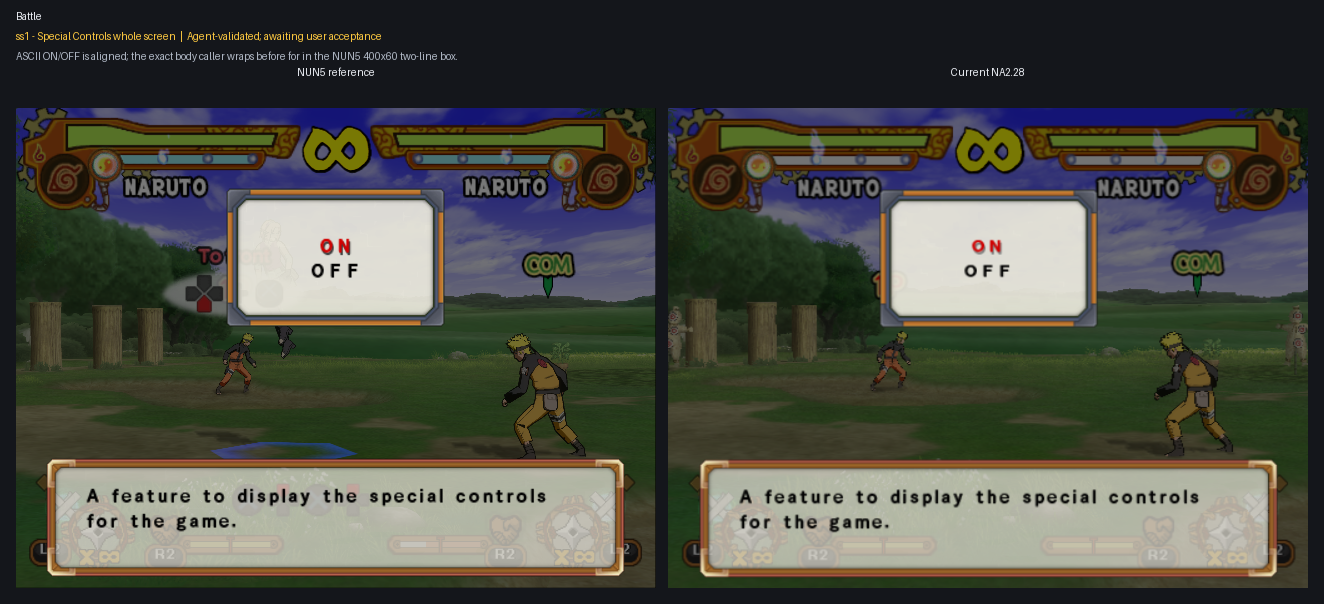
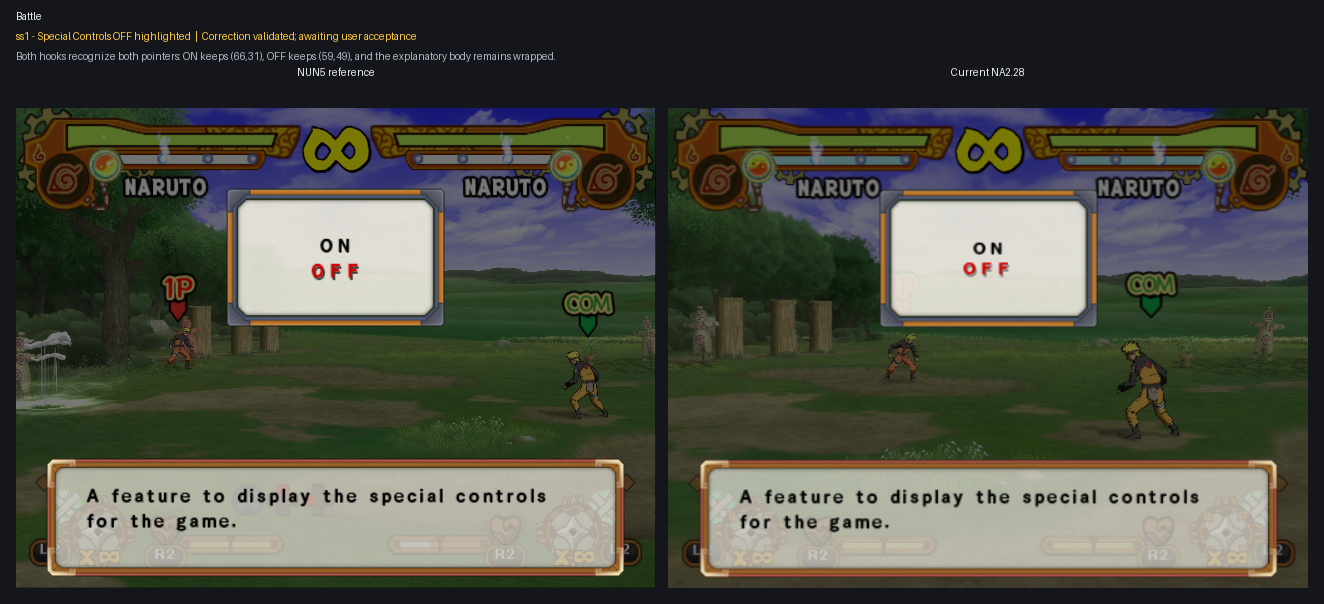
[Layout/autofit epic.] Preserve Special Controls positions

diff --git a/na2_patcher/tests/test_runtime_injector.py b/na2_patcher/tests/test_runtime_injector.py
@@ -1535,12 +1535,13 @@ class RuntimeInjectorTests(unittest.TestCase):
         selected_payload = build.payload[
             selected.file_offset:selected.file_offset + selected.size
         ]
-        selected_words = {
+        selected_word_list = [
             int.from_bytes(
                 selected_payload[offset:offset + 4], "little"
             )
             for offset in range(0, len(selected_payload), 4)
-        }
+        ]
+        selected_words = set(selected_word_list)
         for value in (
             24.0,
             56.0,
@@ -1565,8 +1566,32 @@ class RuntimeInjectorTests(unittest.TestCase):
             selected_words,
         )
         self.assertIn(
+            mips.i_type(0x0D, 8, 8, 0x59F8),
+            selected_words,
+        )
+        self.assertIn(
             mips.jump(0x02, 0x00379150),
             selected_words,
+        )
+        selected_on = selected_word_list.index(
+            mips.i_type(0x0D, 8, 8, 0x59F0)
+        )
+        selected_off = selected_word_list.index(
+            mips.i_type(0x0D, 8, 8, 0x59F8)
+        )
+        selected_on_branch = selected_word_list[selected_on + 1]
+        self.assertEqual(selected_on_branch >> 26, 0x04)
+        selected_on_delta = selected_on_branch & 0xFFFF
+        if selected_on_delta & 0x8000:
+            selected_on_delta -= 0x10000
+        selected_on_target = selected_on + 2 + selected_on_delta
+        self.assertEqual(
+            selected_word_list[selected_on_target],
+            mips.i_type(0x0F, 0, 8, 0x4284),
+        )
+        self.assertEqual(
+            selected_word_list[selected_off + 3],
+            mips.i_type(0x0F, 0, 8, 0x426C),
         )
 
         unselected = build.symbols[
@@ -1575,12 +1600,13 @@ class RuntimeInjectorTests(unittest.TestCase):
         unselected_payload = build.payload[
             unselected.file_offset:unselected.file_offset + unselected.size
         ]
-        unselected_words = {
+        unselected_word_list = [
             int.from_bytes(
                 unselected_payload[offset:offset + 4], "little"
             )
             for offset in range(0, len(unselected_payload), 4)
-        }
+        ]
+        unselected_words = set(unselected_word_list)
         self.assertIn(
             mips.jump(0x02, 0x00379A20),
             unselected_words,
@@ -1589,7 +1615,7 @@ class RuntimeInjectorTests(unittest.TestCase):
             mips.jump(0x03, 0x00379A20),
             unselected_words,
         )
-        for value, register in ((59.0, 8), (49.0, 9)):
+        for value, register in ((59.0, 8), (49.0, 9), (31.0, 9)):
             bits = struct.unpack("<I", struct.pack("<f", value))[0]
             self.assertIn(
                 mips.i_type(0x0F, 0, register, bits >> 16),
@@ -1602,6 +1628,30 @@ class RuntimeInjectorTests(unittest.TestCase):
         self.assertIn(
             mips.i_type(0x0D, 8, 8, 0x59F8),
             unselected_words,
+        )
+        self.assertIn(
+            mips.i_type(0x0D, 8, 8, 0x59F0),
+            unselected_words,
+        )
+        unselected_on = unselected_word_list.index(
+            mips.i_type(0x0D, 8, 8, 0x59F0)
+        )
+        unselected_off = unselected_word_list.index(
+            mips.i_type(0x0D, 8, 8, 0x59F8)
+        )
+        unselected_on_branch = unselected_word_list[unselected_on + 1]
+        self.assertEqual(unselected_on_branch >> 26, 0x04)
+        unselected_on_delta = unselected_on_branch & 0xFFFF
+        if unselected_on_delta & 0x8000:
+            unselected_on_delta -= 0x10000
+        unselected_on_target = unselected_on + 2 + unselected_on_delta
+        self.assertEqual(
+            unselected_word_list[unselected_on_target],
+            mips.i_type(0x0F, 0, 8, 0x4284),
+        )
+        self.assertEqual(
+            unselected_word_list[unselected_off + 3],
+            mips.i_type(0x0F, 0, 8, 0x426C),
         )
 
         body = build.symbols[

diff --git a/scripts/research/localization/generate_font_renderer.py b/scripts/research/localization/generate_font_renderer.py
@@ -1463,8 +1463,21 @@ def build_v2_quit_selected_adapter() -> Fragment:
     assembler.branch(0x05, t0, zero, "quit_scope")
     assembler.emit(0)
     mips.load_u32(assembler, t0, SPECIAL_CONTROLS_ON_TEXT)
+    assembler.branch(0x04, a0, t0, "special_on")
+    assembler.emit(0)
+    mips.load_u32(assembler, t0, SPECIAL_CONTROLS_OFF_TEXT)
     assembler.branch(0x05, a0, t0, "original")
     assembler.emit(0)
+    emit_load_float(
+        assembler, t0, 12, SPECIAL_CONTROLS_OFF_TARGET[0]
+    )
+    emit_load_float(
+        assembler, t0, 13, SPECIAL_CONTROLS_OFF_TARGET[1]
+    )
+    assembler.branch(0x04, zero, zero, "original")
+    assembler.emit(0)
+
+    assembler.label("special_on")
     emit_load_float(
         assembler, t0, 12, SPECIAL_CONTROLS_ON_TARGET[0]
     )
@@ -1520,6 +1533,9 @@ def build_v2_quit_unselected_adapter() -> Fragment:
     assembler.branch(0x05, t0, zero, "quit_scope")
     assembler.emit(0)
     assembler.emit(mips.i_type(0x23, a1, t1, 8))
+    mips.load_u32(assembler, t0, SPECIAL_CONTROLS_ON_TEXT)
+    assembler.branch(0x04, t1, t0, "special_on")
+    assembler.emit(0)
     mips.load_u32(assembler, t0, SPECIAL_CONTROLS_OFF_TEXT)
     assembler.branch(0x05, t1, t0, "original")
     assembler.emit(0)
@@ -1528,6 +1544,16 @@ def build_v2_quit_unselected_adapter() -> Fragment:
     )
     mips.load_u32(
         assembler, t1, float_bits(SPECIAL_CONTROLS_OFF_TARGET[1])
+    )
+    assembler.branch(0x04, zero, zero, "mapped")
+    assembler.emit(0)
+
+    assembler.label("special_on")
+    mips.load_u32(
+        assembler, t0, float_bits(SPECIAL_CONTROLS_ON_TARGET[0])
+    )
+    mips.load_u32(
+        assembler, t1, float_bits(SPECIAL_CONTROLS_ON_TARGET[1])
     )
     assembler.branch(0x04, zero, zero, "mapped")
     assembler.emit(0)

diff --git a/docs/workstreams/font/epics/ss2-6-layout/README.md b/docs/workstreams/font/epics/ss2-6-layout/README.md
@@ -14,11 +14,15 @@ before beginning the next slot.
   `work/Font/inputs/sstates/epics/ss2-6/`.
 - Additional remade ss1 inputs:
   `work/Font/inputs/sstates/special-controls-on-off/remade-ss1-20260727/`.
+- OFF-highlight ss1 regression pair:
+  `work/Font/inputs/sstates/special-controls-on-off/off-highlight-20260727/`.
 - Extracted source screenshots:
   `work/Font/inputs/screenshots/epics/ss2-6/`.
 - Provenance:
   `work/Font/inputs/sstates/epics/ss2-6/provenance.tsv` and
-  `work/Font/inputs/sstates/special-controls-on-off/remade-ss1-20260727/provenance.tsv`.
+  `work/Font/inputs/sstates/special-controls-on-off/remade-ss1-20260727/provenance.tsv`,
+  plus
+  `work/Font/inputs/sstates/special-controls-on-off/off-highlight-20260727/provenance.tsv`.
 - Protected `@pcsx2_user` sources remain untouched.
 - Status: the remade ss2 and ss3 pair records the same Pause Controls modal in
   normal and selected states. Both are user-verified and removed from the
@@ -37,7 +41,8 @@ before beginning the next slot.
 ### ss1 — Special Controls selector and explanatory body
 
 - State: selector mapping/positioning and bounded explanatory-body wrapping
-  implemented; agent-validated against the remade pair and awaiting user
+  implemented; the later OFF-highlight regression is corrected and
+  agent-validated against both supplied highlight states, awaiting user
   acceptance of the complete screen.
 - Baseline defect: Current draws fullwidth Shift-JIS `Ｏ　Ｎ`/`ＯＦＦ`, producing
   physically larger glyphs and wide internal advances, while NUN5 draws compact
@@ -46,6 +51,9 @@ before beginning the next slot.
   at `0x513E68`/`0x513E6C`. The paired states prove identical modal list
   geometry, so the existing selected/unselected shared adapters use exact
   string-pointer guards and measured local targets `(66,31)` / `(59,49)`.
+  The later OFF-highlight pair proved that selection swaps which shared helper
+  receives each pointer. Both hooks now recognize both pointers, so coordinates
+  remain attached to ON or OFF rather than to the selected/unselected role.
   Every unrelated list remains native. The same pair also proves T1880 must
   remain one unbroken canonical string while the exact BTL body call at
   `0x1C3D38` creates a transient two-line copy in NUN5's 400-by-60 box,

diff --git a/docs/knowledge/localization/font/README.md b/docs/knowledge/localization/font/README.md
@@ -1360,3 +1360,17 @@ linked trial payload at `0x008F6000`, redirected only the five session-aware
 core hooks plus this body call, and produced the same break and line origins as
 the supplied NUN5 reference. Confidence is high; user acceptance remains a
 separate epic state.
+
+The later matched OFF-highlight ss1 pair exposed a separate selector-state
+regression in the already shared selected/unselected hooks. The first state
+showed selected ON and unselected OFF, so the original guards recognized only
+ON in the selected helper and only OFF in the unselected helper. Highlighting
+OFF swaps those consumer roles: selected receives pointer `0x006059F8` and
+unselected receives `0x006059F0`; both guards missed and fell back to native
+placement. The corrected adapters recognize both pointers in both roles and
+keep coordinates attached to the text row: ON `(66,31)`, OFF `(59,49)`.
+An exact-guarded converted copy of the new state redirected only ELF calls
+`0x283914` and `0x283A60` to a task-local linked payload and matched the NUN5
+OFF-highlight selector while retaining the accepted wrapped body. Focused
+tests now verify the branch target for each ON pointer loads X `66`, while
+each OFF fallthrough loads X `59`; this prevents another role-swap regression.

diff --git a/na2_patcher/features/localization/README.md b/na2_patcher/features/localization/README.md
@@ -1855,8 +1855,10 @@ canonical translation mappings. Its exact BTL list call at file `0x1C4048`
 publishes a transient scope only around native `0x00383600`; the selected and
 unselected calls inside that helper are redirected at ELF files `0x283914`
 and `0x283A60`. They map Yes and No while that scope is active; outside it,
-only the exact Special Controls ON/OFF pointers use their measured coordinates,
-and all other rows tail-call native behavior. The exact body call at BTL file
+both hooks recognize both exact Special Controls ON/OFF pointers. ON therefore
+retains local `(66,31)` and OFF retains `(59,49)` when selection swaps which
+helper renders each row; all other rows tail-call native behavior. The exact
+body call at BTL file
 `0x1C407C` copies at most 255 bytes to the adapter stack, greedily wraps that
 copy inside a 420-by-40 two-line box, and draws from X `48`, Y `12`.
 Neither the formatted source buffer nor canonical mappings receive newline
